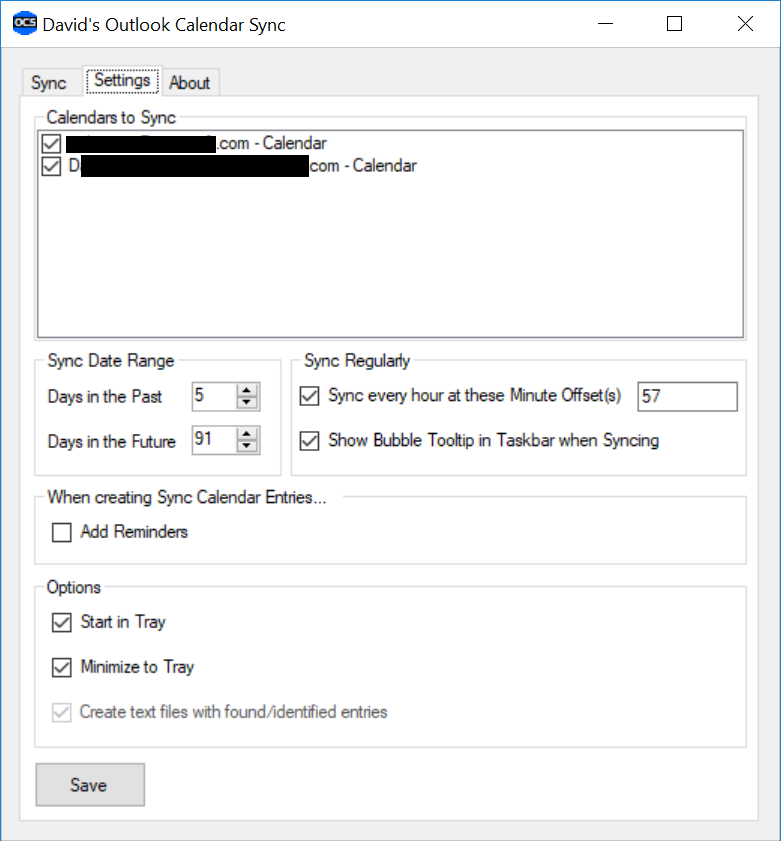
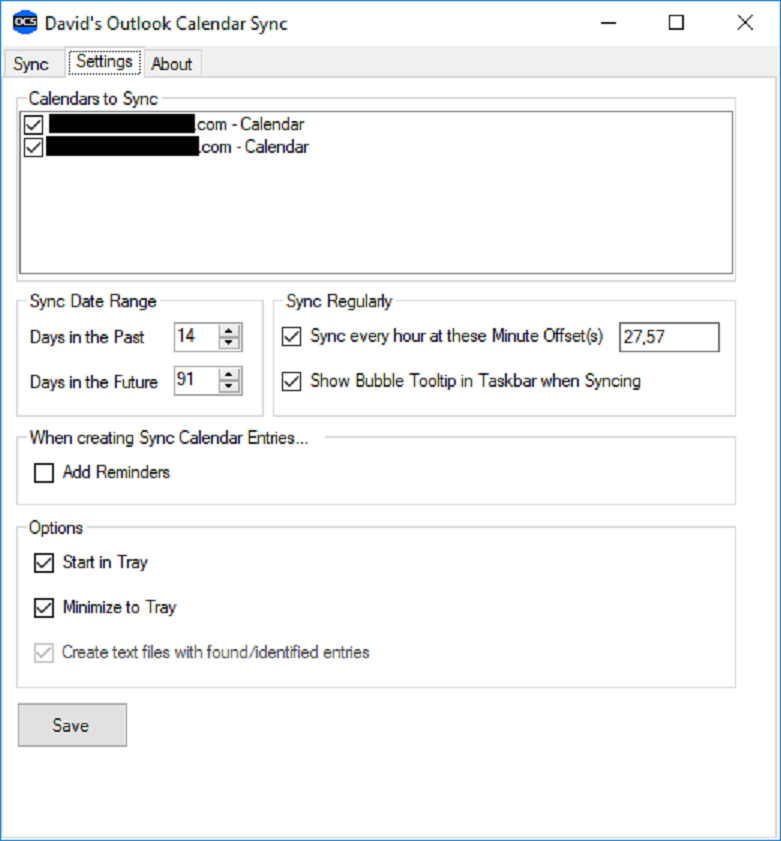
1. Updating version and copyright year. 2. Updating settings screenshot to reflect comma separated values option.

diff --git a/src/OutlookCalendarSync/MainForm.Designer.cs b/src/OutlookCalendarSync/MainForm.Designer.cs
@@ -414,7 +414,7 @@ namespace OutlookCalendarSync
             this.labelAbout.Name = "labelAbout";
             this.labelAbout.Size = new System.Drawing.Size(732, 191);
             this.labelAbout.TabIndex = 1;
-            this.labelAbout.Text = "David\'s Outlook Calendar Sync\r\n\r\nVersion {version}\r\n\r\n2018 by David Engel\r\n\r\nCred" +
+            this.labelAbout.Text = "David\'s Outlook Calendar Sync\r\n\r\nVersion {version}\r\n\r\n2019 by David Engel\r\n\r\nCred" +
     "it:\r\nOriginally OutlookGoogleSync by Zissis Siantidis";
             this.labelAbout.TextAlign = System.Drawing.ContentAlignment.TopCenter;
             // 

diff --git a/src/OutlookCalendarSync/Properties/AssemblyInfo.cs b/src/OutlookCalendarSync/Properties/AssemblyInfo.cs
@@ -14,7 +14,7 @@ using System.Runtime.InteropServices;
 [assembly: AssemblyConfiguration("")]
 [assembly: AssemblyCompany("")]
 [assembly: AssemblyProduct("OutlookCalendarSync")]
-[assembly: AssemblyCopyright("Copyright 2018")]
+[assembly: AssemblyCopyright("Copyright 2019")]
 [assembly: AssemblyTrademark("")]
 [assembly: AssemblyCulture("")]
 
@@ -28,4 +28,4 @@ using System.Runtime.InteropServices;
 //
 // You can specify all the values or you can use the default the Revision and 
 // Build Numbers by using the '*' as shown below:
-[assembly: AssemblyVersion("1.0.3.0")]
+[assembly: AssemblyVersion("1.0.4.0")]
